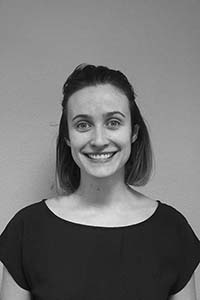
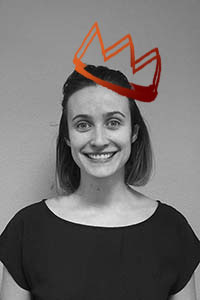
ajout des images superposées sur les photos de l'équipe

Changed region(s): [[0.36, 0.06, 0.81, 0.36]]

diff --git a/css/main.css b/css/main.css
@@ -102,7 +102,7 @@ video {
 #siteWrapper header {
   height: max-content;
 
-  background-color: #53c4a2;
+  background-color: #7fd8bd;
   /* background-color: #FBEBE2; */
   line-height: 1.2;
 
@@ -347,6 +347,10 @@ video {
     }
   }
   /* modales */
+
+  .simple-modal-title{
+    margin-bottom: 4rem;
+  }
   .simple-modal,
   .simple-animated-modal {
     position: fixed;
@@ -405,7 +409,7 @@ video {
   .simple-modal-close,
   .simple-animated-modal-close {
     float: right;
-    background: #128197;
+    background: #2fa380;
     border-radius: 1em;
     color: #fff;
     border: 0;
@@ -510,9 +514,11 @@ video {
 
 .third-content-element {
     display: grid;
-    grid-template-columns: repeat(5, 1fr);
+    grid-template-columns: repeat(8, 1fr);
     grid-gap: 10px;
-    grid-auto-rows: minmax(100px, auto);
+    grid-auto-rows: minmax(200px, auto);
+
+    justify-items: center;
 }
     
 .third-content-element-card {
@@ -538,44 +544,49 @@ video {
 .scene {
   width: 15rem;
   height: 15rem;
-  border: 1px solid #CCC;
+  
   margin: 40px 0;
   perspective: 600px;
   z-index: 1;
 }
 .scene:nth-child(1) {
-  grid-column:  2;
-  grid-row: 2 / 4;
+  grid-column:  2/4;
+  grid-row: 1 / 3;
 }
 
 .scene:nth-child(2) {
-  grid-column:  3;
+  grid-column:  4;
 grid-row: 3 / 5;
 }
 
 .scene:nth-child(3) {
-  grid-column: 4;
-grid-row: 1 / 3;
+  grid-column: 6/8;
+grid-row: 2 / 4;
 }
 
 .scene:nth-child(4) {
-  grid-column: 2 / 4;
-grid-row: 5/7;
-}
-
-.scene:nth-child(5) {
-  grid-column: 4;
-grid-row: 6/8;
-}
-
-.scene:nth-child(6) {
-  grid-column: 4;
+  grid-column: 2;
 grid-row: 4/6;
 }
 
+.scene:nth-child(5) {
+  grid-column: 6;
+grid-row: 5/7;
+}
+
+.scene:nth-child(6) {
+  grid-column: 3/5;
+grid-row: 6/8;
+}
+
 .scene:nth-child(7) {
-  grid-column: 3/4;
-grid-row: 8;
+  grid-column: 3;
+  grid-row: 8;
+}
+
+.scene:nth-child(8) {
+  grid-column: 5/7;
+grid-row: 7/9;
 }
 
 .card {
@@ -610,7 +621,7 @@ grid-row: 8;
 
 
 #card1 .card__face--front {
-  background-color: #B800F0;
+  background-color: #a244be;
 }
 
 #card2 .card__face--front  {
@@ -630,11 +641,19 @@ grid-row: 8;
 }
 
 #card6 .card__face--front {
-  background-color: #070916;
+  background-color: #40424d;
 }
 
 #card7 .card__face--front {
-  background-color: #f0bc00e3;
+  background-color: #ecbb06e3;
+}
+
+#card8 .card__face--front {
+  background-color: #79cfb5;
+}
+
+#card8 .card__face--back {
+  background-color: #FBEBE2;
 }
 
 .card__face--back {
@@ -648,21 +667,26 @@ grid-row: 8;
   overflow: hidden;
   /* padding: 5rem; */
   z-index: 1000;
+
+  width: 40rem;
+  height: 40rem;
+  padding: 5rem;
+  margin: auto;
 }
 
-.card__face--back:hover,
+/* .card__face--back:hover,
 .card__face--back:active {
   width: 40rem;
   height: 40rem;
   padding: 5rem;
   margin: auto;
   z-index: 1;
-}
+} */
 
 .card-surprise-box {
   filter: drop-shadow(-5px 6px 10px rgb(192, 192, 192));
-  grid-column: 2/5;
-  grid-row: 9/15;
+  grid-column: 2/6;
+  grid-row: 3/6;
 }
 
 .card-surprise {
@@ -852,11 +876,11 @@ grid-row: 8;
     filter: drop-shadow(0 1px 10px rgba(61, 161, 131, 0.8));
   }
   .fifth-content{
-  background-color: #53c4a2;
+  background-color: #7fd8bd;
   padding-top: 2rem;
   padding-bottom: 4rem;
 
-  clip-path: polygon(50% 15%, 100% 0, 100% 100%, 0 100%, 0 0);
+  clip-path: polygon(50% 20%, 100% 30px, 100% 100%, 0px 100%, 0px 30px);
 }
 .fifth-content-element {
     display: flex;

diff --git a/index.html b/index.html
@@ -344,13 +344,23 @@
                                     </div>
                                 </div>
                             </div>
-                            
-                            <div class="card-surprise-box">
-                                <div class="card-surprise">
-                                    <video controls src="assets/medias/tresors/repliqueGif.mp4"></video>
+
+                            <div class="scene scene--card">
+                                <div class="card" id="card8">
+                                    <div class="card__face card__face--front">
+                                    </div>
+                                    <div class="card__face card__face--back">
+                                        <video controls src="assets/medias/tresors/repliqueGif.mp4"></video>
+                                    </div>
                                 </div>
                             </div>
+                            <div class="card-surprise-box">
+                                <div class="card-surprise">
+                                </div>
+                            </div>
+                            
                         </div> 
+                        
                     </div>
                 </div>
             </section>

diff --git a/js/script.js b/js/script.js
@@ -13,7 +13,7 @@
 
 
 /* Créer une fonction qui retourne la carte au clic */
-const cards = ["card1", "card2", "card3", "card4", "card5", "card6", "card7"];
+const cards = ["card1", "card2", "card3", "card4", "card5", "card6", "card7", "card8"];
 cards.map((card) => { 
   const cardArray = document.getElementById(card);
   cardArray.addEventListener("click", function () {
